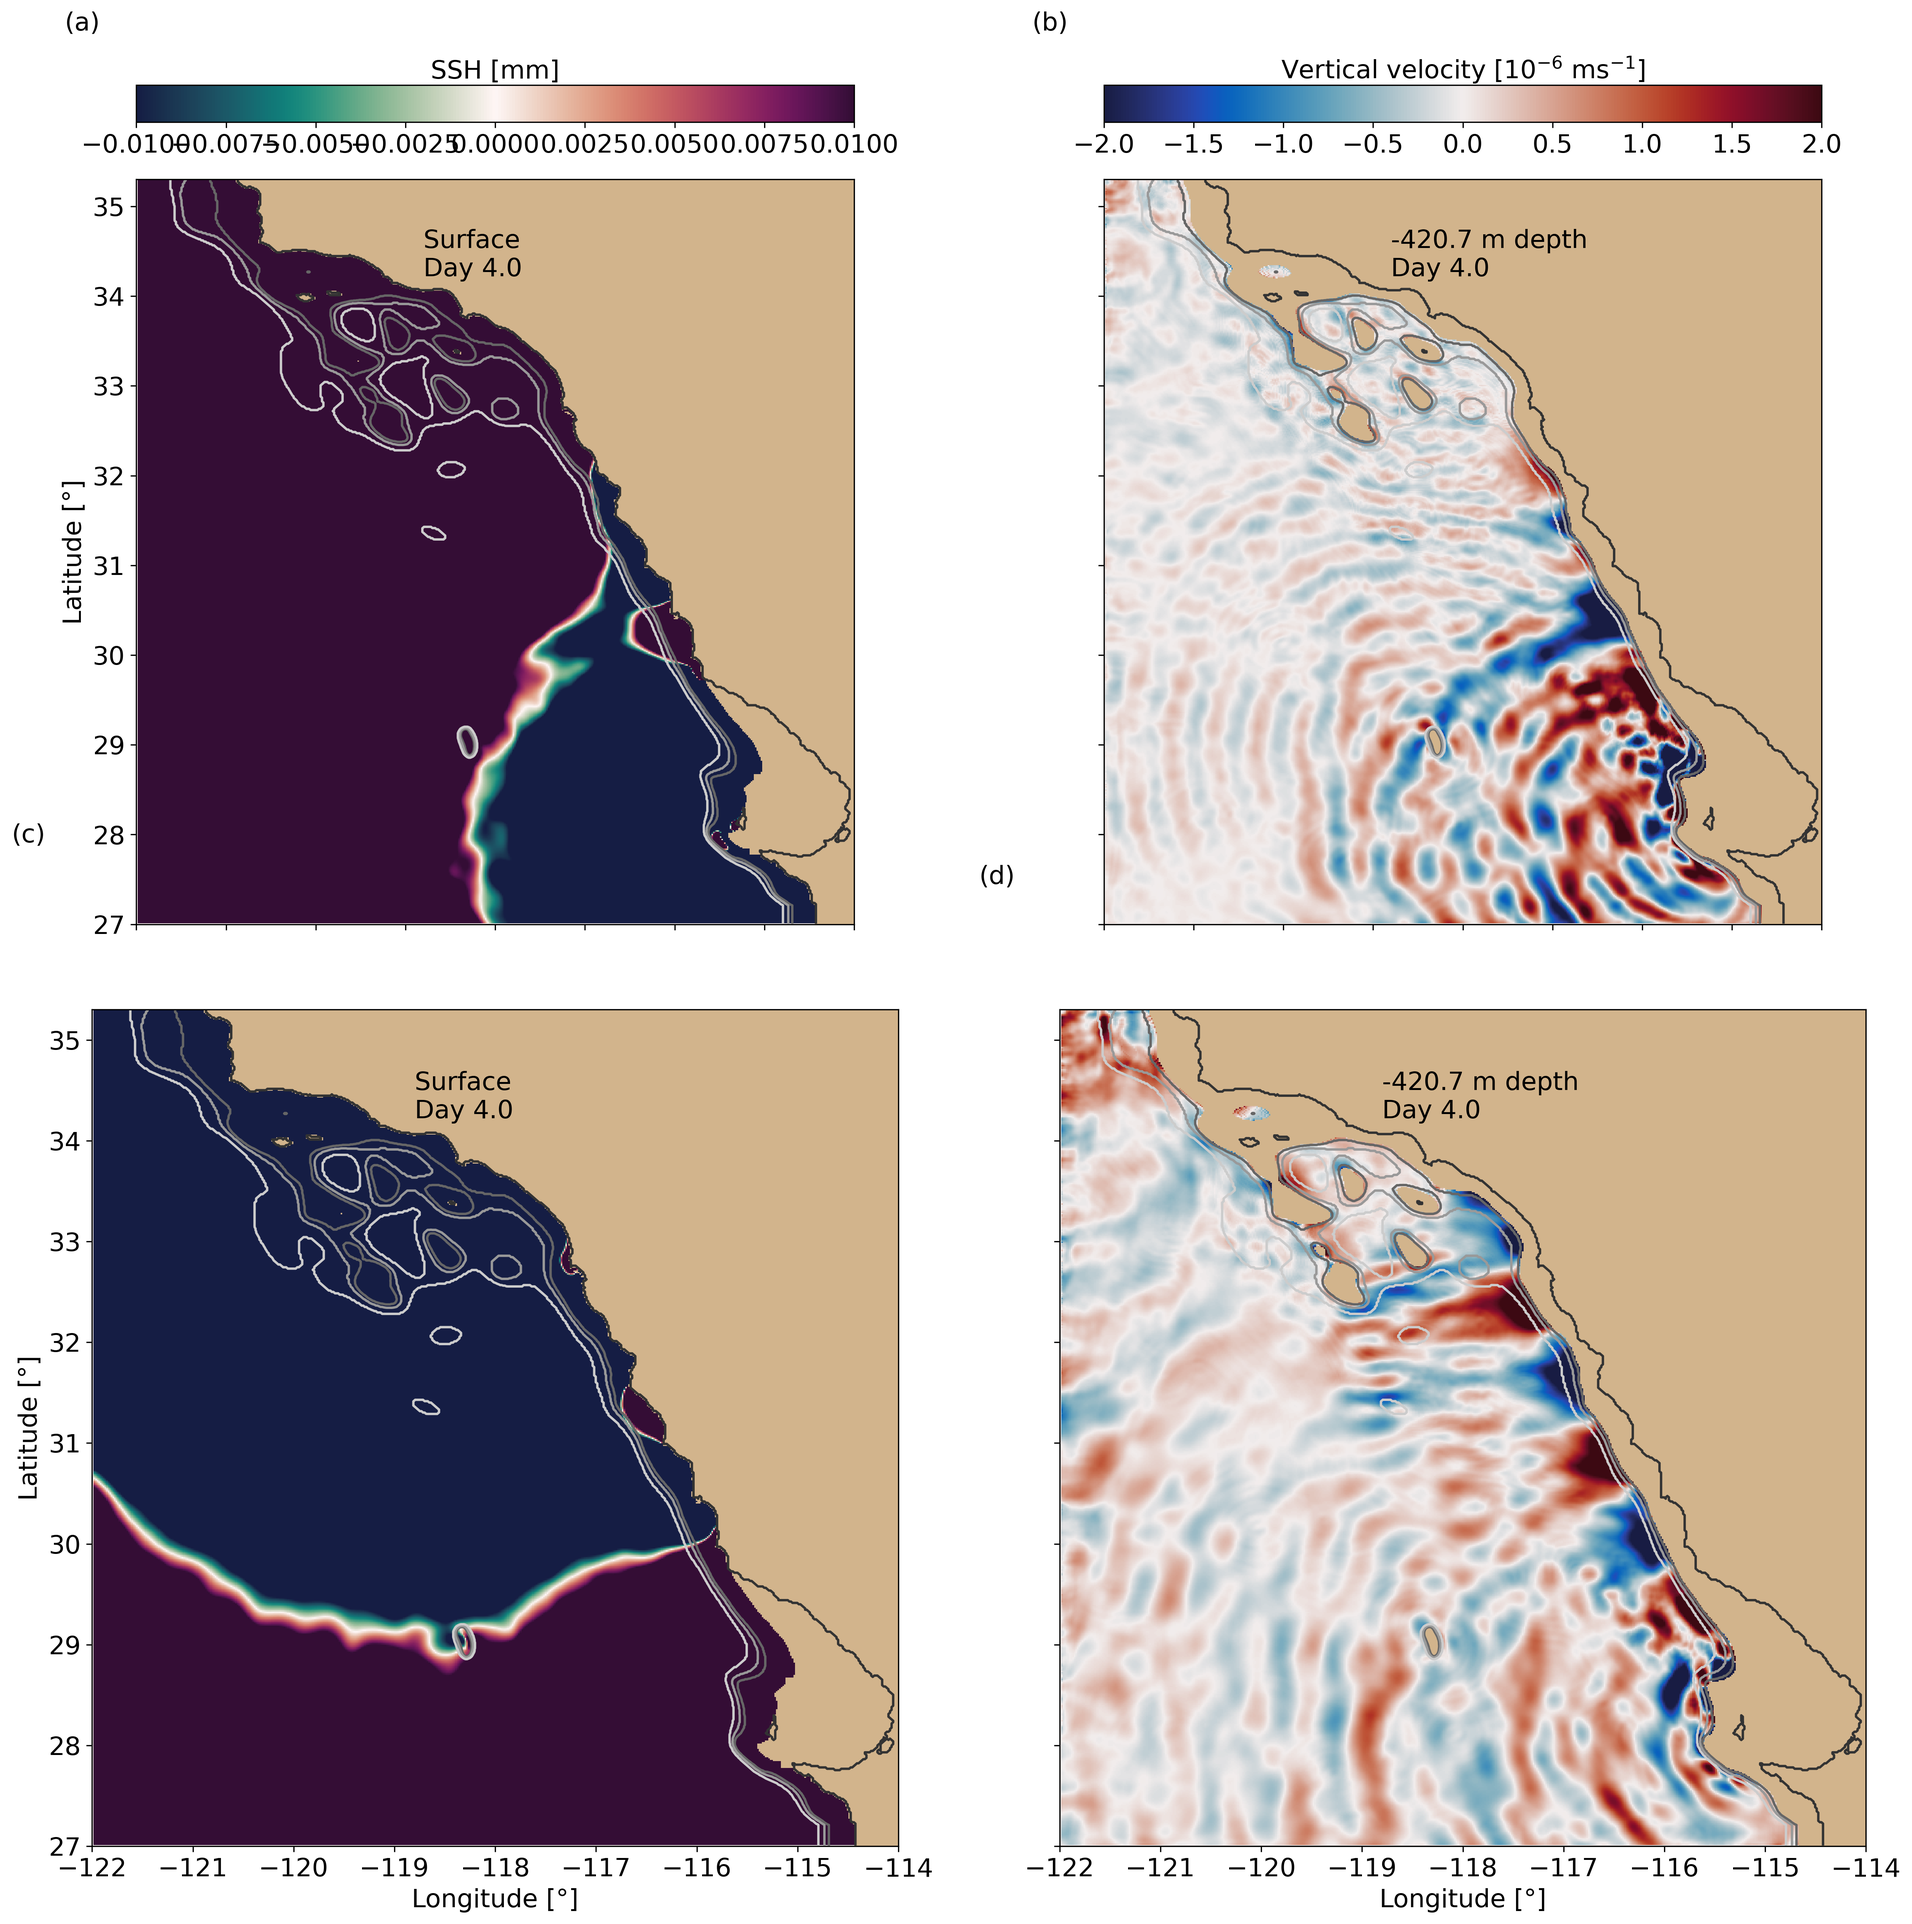
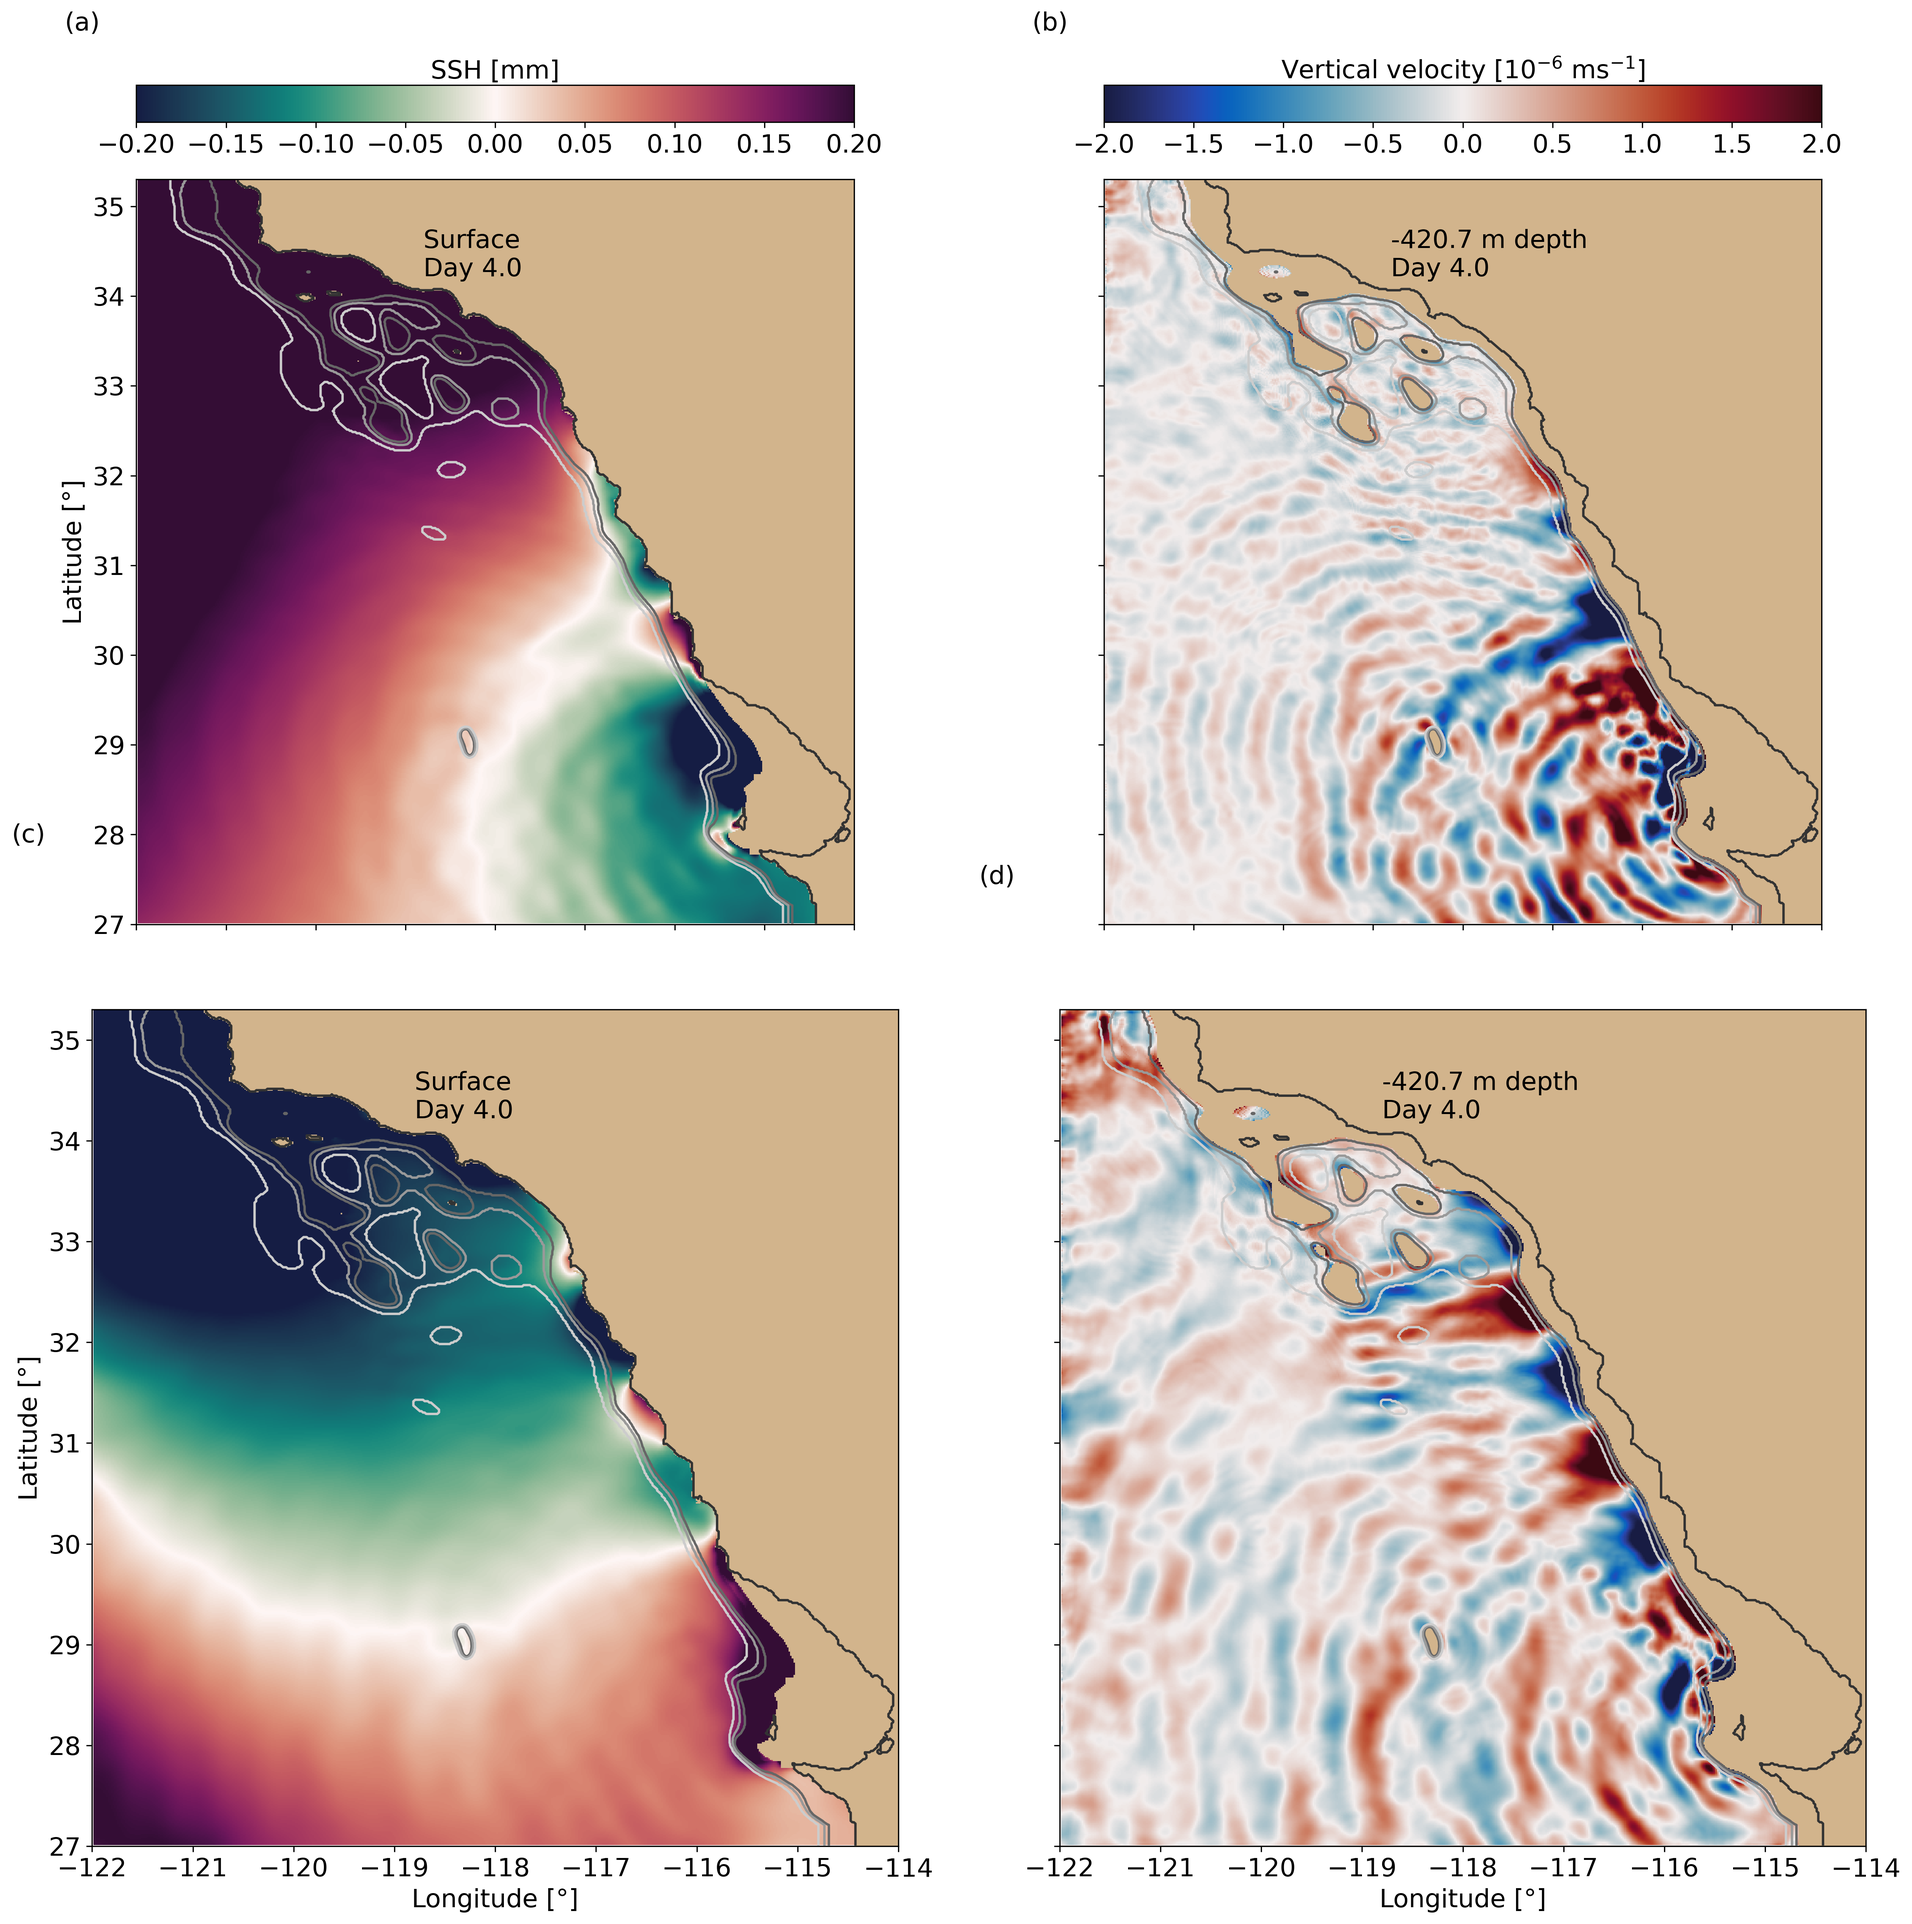
WAVES

diff --git a/Scripts/Fig2WavesArticle.py b/Scripts/Fig2WavesArticle.py
@@ -86,13 +86,13 @@ fig = plt.figure()
 gs = GridSpec(nrows=2, ncols=2,hspace=0.1)
 
 if coast == 'smooth': 
-	vminSSH=-0.01
-	vmaxSSH=0.01
+	vminSSH=-0.2
+	vmaxSSH=0.2
 	vminvel=-0.000002*1e6
 	vmaxvel=0.000002*1e6
 elif coast == 'original': 
-        vminSSH=-0.0001
-        vmaxSSH=0.0001
+        vminSSH=-0.2
+        vmaxSSH=0.2
         vminvel=-0.000002*1e6
         vmaxvel=0.000002*1e6
 
